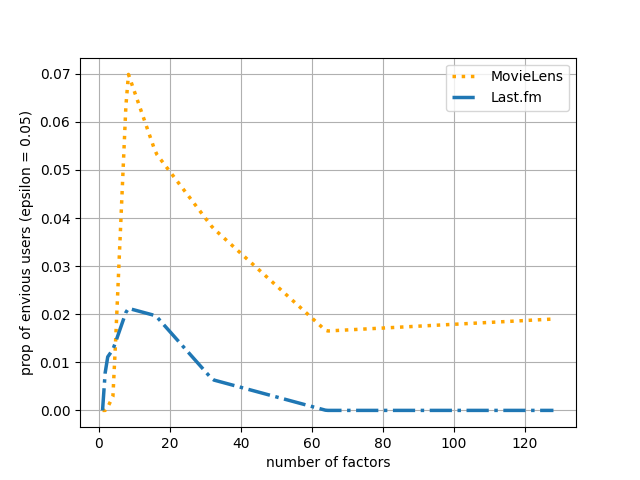
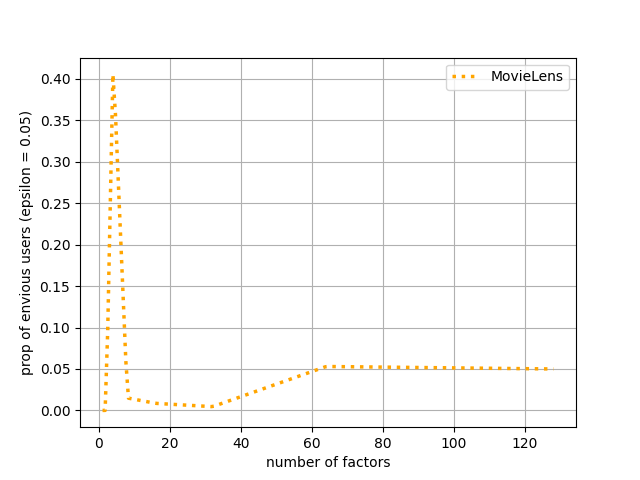
Code keeps lagging

diff --git a/vN/src/lib/recommender.py b/vN/src/lib/recommender.py
@@ -56,11 +56,8 @@ def train_SVD_model(hyperparameter_configurations, batch, train, validation, tes
     #     validation["rating"] = min_rating + (((validation["rating"]  - min_value) * (max_rating - min_rating)) / (max_value - min_value))
     #     test["rating"] = min_rating + (((test["rating"]  - min_value) * (max_rating - min_rating)) / (max_value - min_value))
     
-    test = test.sort_values(by=["u_id"], ascending=True)
-    # Get how many ratings a user has given
-    test["rating_count"] = np.full(len(test), 1)
-    test_rating_count = helper.merge_duplicates(test, "u_id", "rating_count")
-    rating_count_per_user = np.array(test_rating_count["rating_count"])
+    num_entries, _ = test.shape
+    num_items = len(test["i_id"].unique())
 
     # Train Funky SVD model for different hyperparameter configurations
     for i, params in enumerate(hyperparameter_configurations):
@@ -72,28 +69,19 @@ def train_SVD_model(hyperparameter_configurations, batch, train, validation, tes
         # Measure performance on test set
         pred = svd.predict(test)
 
-        y_true = np.array(test["rating"])
-        y_pred = np.array(pred)
-    
-        y_true_per_user = np.split(y_true, np.cumsum(rating_count_per_user))
-        y_pred_per_user = np.split(y_pred, np.cumsum(rating_count_per_user))
+        num_users = num_entries / num_items
+        shape = (int(num_users), int(num_items))
 
-        # Last element of split function is empty list so remove
-        y_pred_per_user.pop()
-        y_true_per_user.pop()
-        
-        ndcg = np.array([])
+        y_true = np.reshape(np.array(test["rating"]), shape)
+        y_score = np.reshape(np.array(pred), shape)
 
-        # Measure prediction performance per user
-        for (y1, y2) in zip(y_true_per_user, y_pred_per_user):
-            if performance_metric == "ndcg":
-                ndcg = np.append(ndcg, ndcg_score(np.asarray([y1]), np.asarray([y2]), k=K))
-                # ndcg = ndcg_score(np.asarray([y1]), np.asarray([y2]), k=K)
-            else:
-                ndcg = np.append(ndcg, dcg_score(np.asarray([y1]), np.asarray([y2]), k=K))
-                # ndcg = dcg_score(np.asarray([y1]), np.asarray([y2]), k=K)
+        # print(y_true)
+        # print(y_score)
         
-        ndcg = np.mean(ndcg)
+        if performance_metric == "ndcg":
+            ndcg = ndcg_score(np.asarray(y_true), np.asarray(y_score), k=K)
+        else:
+            ndcg = dcg_score(np.asarray(y_true), np.asarray(y_score), k=K)
 
         results[i] = {"latent_factor": params["latent_factor"], "result": {"ndcg": ndcg, "model": svd, "params": params}} 
         
@@ -197,10 +185,10 @@ def create_recommendation_est_system(ground_truth, hyperparameter_configurations
         # print(validation.shape)
         # print(test.shape)
         
-        # Drop such that we compute latent factors only using the values we know
-        train = train.drop(train[train.rating < 0].index)
-        validation = validation.drop(validation[validation.rating < 0].index)
-        test = test.drop(test[test.rating < 0].index)
+        # # Drop such that we compute latent factors only using the values we know
+        # train = train.drop(train[train.rating < 0].index)
+        # validation = validation.drop(validation[validation.rating < 0].index)
+        # test = test.drop(test[test.rating < 0].index)
         
         # # Set to zero such that we compute latent factors only using the values we know
         # train["rating"].mask(train["rating"] < 0 , 0, inplace=True)
@@ -359,38 +347,18 @@ def create_recommendation_policies(preference_estimates, temperature=1/5):
     recommendation = np.apply_along_axis(select_policy, 1, policies, indices)
     return {"recommendations": recommendation, "policies": policies}
 
-def create_rewards(ground_truth, normalize=False):
+def create_rewards(ground_truth):
     """
     Generates the rewards by a Bernoulli distribution per item and the expectation of the Bernoulli distribution
 
     Inputs:
         ground_truth        - ground truth 
-        normalize           - whether to normalize the <ground_truth> using min-max normalization
     Outputs:
         tuple               - tuple containing the binary rewards and expecation of the binary rewards in user-item matrix format
     """
     print("Generating binary rewards...")
-    
-    def x_norm(x, x_min, x_max):
-        # RuntimeWarning: invalid value encountered in divide
-        # Handles division by zero since row is zero
-        if((x_max - x_min) == 0):
-            return 0
-        return (x - x_min) / (x_max - x_min)
-
-    normalize_x = np.vectorize(x_norm)
-    
-    # Given a row of values normalize each value
-    def normalize(row):
-        x_min, x_max = np.amin(row), np.amax(row)
-        return normalize_x(row, x_min, x_max)
-
-    # Create expectation of the Bernoulli distribution
-    if normalize:
-        # Normalize ground truth such that it can represent the expectation of the Bernoulli distribution
-        expectation = np.apply_along_axis(normalize, 1, ground_truth)
-    else:
-        expectation = np.copy(ground_truth)
+        
+    expectation = np.copy(ground_truth)
 
     rewards = np.zeros(ground_truth.shape)
 

diff --git a/vN/src/classes/audit.py b/vN/src/classes/audit.py
@@ -1,0 +1,81 @@
+import numpy as np
+from tqdm import tqdm
+
+class Audit(object):
+    def __init__(self):
+        
+        self.envy = None
+
+    # Basic definition of envy-freeness in a system (see 3.1 paper)
+    def envy_free_basic(recommendations, policies, expec_rewards, preferences, epsilon=0.05, gamma=0.5, lamb=0.5, relax_criterion=False):
+        """
+        Checks whether a system is envy-free according to the basic definition.
+
+        :recommendations:       recommender system's recommendation
+        :policies:              probability distribution over the items of getting picked/recommended -> policies
+        :rewards:               binary rewards
+        :expec_rewards:         the expectation of the rewards
+        :epsilon:               determines how much deviation the utility u_mm and u_mn are allowed to have to be still considered equal
+        :gamma:                 determines the envious threshold for a USER. The larger gamma the more policies of other users should give 
+                                the user envy before he is considered envious
+        :lamb:                  determines the envy threshold for the SYSTEM. A system is considered envy-free if at leas (1 - lambda) users are not envious
+        :returns:               data = {"envy_free": <envy_free>, "avg_envy_user": <average_envy_per_user>, "prop_envious_users": <proportion_envious_users>}
+        """
+        print("Checking for envy through basic definition...")
+        users, _ = recommendations.shape
+
+        # # RELAXATION CONDITIONS: such that we do not have to try ALL users and ALL policies
+        # # Threshold of when an user is considered envious
+        # envious_user_threshold = int(gamma * users)
+        # # Threshold of users that should not be envious
+        # envy_free_users_threshold = users * (1 - lamb)
+
+        # This whole section belows makes use of the properties of lineair algebra to compute sources of envy
+
+        # According to definition utility = policy * expectation rewards
+        utilities = policies @ expec_rewards.T
+
+        # Column index = index of user policy, row index = index of user to which the policy was applied
+        delta_utilities = utilities - np.repeat([utilities.diagonal()], users, axis=0)
+        
+        # Get maximum envy experienced by users (i.e. for each user)
+        max_delta_utilities = delta_utilities.max(axis=0, keepdims=True)
+        delta_envy = np.maximum(max_delta_utilities, np.zeros(users))
+
+        # Envy for each user
+        envy_users = delta_envy.flatten()
+
+        average_envy_per_user = np.mean(envy_users)
+        proportion_envious_users = np.mean(envy_users > epsilon)
+
+        # <envy_free> temporarily None
+        return {"envy_free": None, "avg_envy_user": average_envy_per_user, "prop_envious_users": proportion_envious_users}
+
+    def determine_envy_freeness(recommendations, policies, rewards, expec_rewards, preferences, mode_envy="basis"):
+        """
+        Determines envy-freeness in a system according to different methods
+
+        :recommendations:       recommender system's recommendations
+        :policies:              probability distribution over the items of getting picked/recommended -> policies
+        :rewards:               binary rewards
+        :expec_rewards:         the expectation of the rewards
+        :mode_envy:             modus that specifies which method should be applied to audit envy-freeness in the system
+        :returns:               audit results 
+        """
+        # Basic definition of envy-freeness
+        if mode_envy == "basic":
+            envy_results = envy_free_basic(recommendations, policies, expec_rewards, preferences)
+        # Algorithm 1: OCEF (Online Certification of Envy-Freeness) algorithm
+        elif mode_envy == "OCEF":
+            # TO DO
+            exit()
+        # Algorithm 2: AUDIT algorithm
+        elif mode_envy == "AUDIT":
+            # TO DO
+            exit()
+        # Default is basic envy-freeness
+        else:
+            envy_results = envy_free_basic(recommendations, policies, expec_rewards, preferences)
+        
+        print(envy_results)
+        return envy_results

diff --git a/vN/src/main.py b/vN/src/main.py
@@ -156,8 +156,12 @@ if __name__ == "__main__":
 
         data_set["vars"]["ground_truth"] = ground_truth
 
-        # Whether to normalize the relevance scores to range [0, 1]
-        min_max_scaling = True
+        # Becaus the (N)DCG metric doesn't work well with negative scores   
+        if constant.PERFORMANCE_METRIC_REC == "ndcg" or constant.PERFORMANCE_METRIC_REC == "dcg":
+            # Whether to normalize the relevance scores to range [0, 1]
+            min_max_scaling = True
+        else:
+            min_max_scaling = False
 
         # Normalize to range [0, 1]
         if min_max_scaling: 
@@ -173,8 +177,9 @@ if __name__ == "__main__":
 
             # Take only the normalized values of values that were originally > 0
             tmp_gt = pos_mask * ground_truth_norm
-            # Add back original negative values for Implicit ALS model algorithm
-            ground_truth = (neg_mask * ground_truth) + tmp_gt
+            ground_truth = tmp_gt
+            # # Add back original negative values for Implicit ALS model algorithm
+            # ground_truth = (neg_mask * ground_truth) + tmp_gt
 
 
         IO_INFIX = IO_INFIX + ALGORITHM_CHOICE + "/"

diff --git a/vN/src/classes/recommender.py b/vN/src/classes/recommender.py
@@ -6,22 +6,26 @@ from implicit.als import AlternatingLeastSquares
 from implicit.evaluation import precision_at_k
 
 class Recommender(object):
-    def __init__(self, model, model_type, params, ground_truth, preference_est, pred_perf, pred_metric, 
+    def __init__(self, model, model_type, params, ground_truth, preference_est, performance, pred_metric, 
                     recommendations, policies, rewards, expec_rewards):
         """
-        Implements an alternating least squares model as a recommender system.
+        Initialize recommender system object
+        
         Inputs:
             
         """
         self.model = model
         self.model_type = model_type
         self.params = params
+        
+        self.pred_metric = pred_metric
+        self.performance = performance
+
         self.ground_truth = ground_truth
         self.preferences = preference_est
-        self.pred_perf = pred_perf
-        self.pred_metric = pred_metric
-        self.recommendations = recommendations
+
         self.policies = policies
+        self.recommendations = recommendations
 
         self.rewards = rewards
         self.expec_rewards = expec_rewards

diff --git a/vN/src/lib/envy.py b/vN/src/lib/envy.py
@@ -6,9 +6,6 @@
 import numpy as np
 from tqdm import tqdm
 
-# def utility(m, n, probability_policies, expec_rewards):
-#     return np.sum(probability_policies[n] * expec_rewards[m])
-
 # Basic definition of envy-freeness in a system (see 3.1 paper)
 def envy_free_basic(recommendations, policies, expec_rewards, preferences, epsilon=0.05, gamma=0.5, lamb=0.5, relax_criterion=False):
     """
